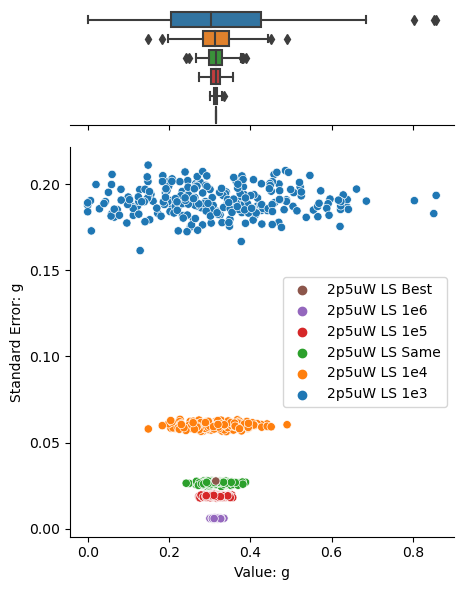
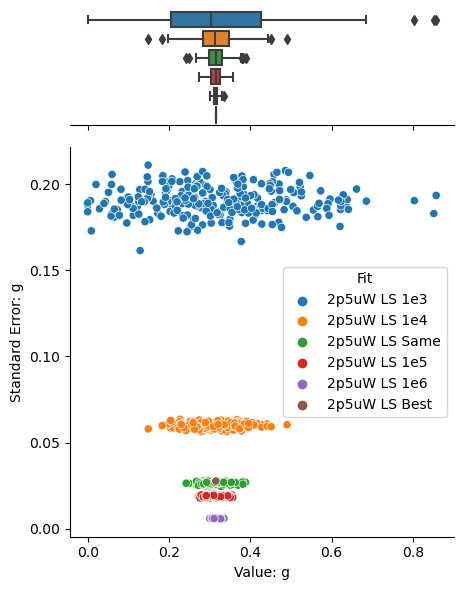
Automated Paper Plots
The plot_paper.py file now generates all relevant aggregate plots in the paper automatically.

Changed region(s): [[0.6955, 0.4576, 0.9676, 0.7017], [0.635, 0.4576, 0.6652, 0.7017]]

diff --git a/code/plot_paper.py b/code/plot_paper.py
@@ -5,18 +5,18 @@ Created on Mon Feb 13 16:00:21 2023
 @author: David J. Kedziora
 """
 
-import os
+# import os
 
 import pandas as pd
 import numpy as np
-from lmfit import fit_report
+# from lmfit import fit_report
 
-from time import time
-import multiprocessing as mp
-from functools import partial
+# from time import time
+# import multiprocessing as mp
+# from functools import partial
 
 import load
-import calc
+# import calc
 import plot
 
 import seaborn as sns
@@ -136,57 +136,88 @@ for filename_prefix, filename_label in zip(filename_prefixes, filename_labels):
 #     df_temp.drop(df_temp[is_stderr_too_big].index, inplace=True)
 
 #%% Create plots as required.
-plotted_filename_labels = ["1p2uW", "30uW"]#,"1p2uW", "2p5uW", "4uW", "8uW", "10uW-", "10uW+", "20uW", "30uW"]
-plotted_fit_prefixes = ["no_bg_ls_fit", "ls_fit"]
-plotted_num_event_ids = ["10000"]
+# plotted_filename_labels = ["1p2uW", "30uW"]#,"1p2uW", "2p5uW", "4uW", "8uW", "10uW-", "10uW+", "20uW", "30uW"]
+# plotted_fit_prefixes = ["no_bg_ls_fit", "ls_fit"]
+# plotted_num_event_ids = ["10000"]
     
-for param_id in param_ids:
-    
-    df_plot = pd.DataFrame(columns=param_fit_ids)
-    
-    for count_filename in range(len(filename_labels)):
-        filename_label = filename_labels[count_filename]
-        total_events = total_event_list[count_filename]
-        if filename_label in plotted_filename_labels:
-            
-            for count_fit_prefix in range(len(fit_prefixes)):
-                fit_prefix = fit_prefixes[count_fit_prefix]
-                if fit_prefix in plotted_fit_prefixes:
-                    fit_label = fit_labels[count_fit_prefix]
-                    
-                    if not fit_prefix == "no_bg_ls_fit":
-                        # First row of any sample size is the original best fit.
-                        df_temp = mc_results[filename_label][fit_prefix][num_event_ids[0]][param_id]
-                        df_plot = pd.concat([df_plot,
-                                             df_temp.loc[0].to_frame().T.assign(Fit=filename_label + " " + fit_label + " Best", Best="1")], 
-                                            ignore_index=True)
-                    
-                    for count_num_events in range(len(num_event_ids)):
-                        num_events = num_event_ids[count_num_events]
-                        num_event_label = num_event_labels[count_num_events]
-                        if num_events in plotted_num_event_ids:
-                            df_temp = mc_results[filename_label][fit_prefix][num_events][param_id]
+def plot_scatter(plotted_filename_labels, plotted_fit_prefixes, plotted_num_event_ids,
+                 filename_plot,
+                 do_reverse_hues = False, do_reverse_legend = False, do_move_legend = False):
+    for param_id in param_ids:
+        
+        df_plot = pd.DataFrame(columns=param_fit_ids)
+        
+        for count_filename in range(len(filename_labels)):
+            filename_label = filename_labels[count_filename]
+            total_events = total_event_list[count_filename]
+            if filename_label in plotted_filename_labels:
+                
+                for count_fit_prefix in range(len(fit_prefixes)):
+                    fit_prefix = fit_prefixes[count_fit_prefix]
+                    if fit_prefix in plotted_fit_prefixes:
+                        fit_label = fit_labels[count_fit_prefix]
+                        
+                        if not fit_prefix == "no_bg_ls_fit":
+                            # First row of any sample size is the original best fit.
+                            df_temp = mc_results[filename_label][fit_prefix][num_event_ids[0]][param_id]
                             df_plot = pd.concat([df_plot,
-                                                 df_temp.loc[1:].assign(Fit=filename_label + " " + fit_label + " " + num_event_label, Best="0")],
+                                                 df_temp.loc[0].to_frame().T.assign(Fit=filename_label + " " + fit_label + " Best", Best="1")], 
                                                 ignore_index=True)
-            
-            # dataset = pd.concat([mc_results["pnoise_fits"]["1000"]["amp_ratio"].assign(dataset="set1"), 
-            #                      mc_results["fits"]["1000"]["amp_ratio"].assign(dataset="set2")])
-            
-    g = sns.JointGrid(data=df_plot.iloc[::-1], x="value", y="stderr", hue="Fit", ratio=3)
-    # g = sns.JointGrid(data=df_plot, x="value", y="stderr", hue="Fit")
-    
-    g.plot_joint(sns.scatterplot)
-    handles, labels = g.ax_joint.get_legend_handles_labels()
-    g.ax_joint.legend(handles[::-1], labels[::-1])
-    # g.plot_marginals(sns.stripplot, hue="dataset", dodge=True)
-    # sns.boxplot(df_plot, x=g.hue, y=g.y, ax=g.ax_marg_y)
-    sns.boxplot(df_plot, y=g.hue, x=g.x, ax=g.ax_marg_x)
-    g.ax_marg_y.remove()
-    if param_id == "g2_zero":
-        g.set_axis_labels(xlabel="Value: g", ylabel="Standard Error: g")
-        sns.move_legend(g.ax_joint, "upper left", bbox_to_anchor=(1, 1))
-        g.savefig(plot_prefix + "temp.png" , bbox_inches="tight")
+                        
+                        for count_num_events in range(len(num_event_ids)):
+                            num_events = num_event_ids[count_num_events]
+                            num_event_label = num_event_labels[count_num_events]
+                            if num_events in plotted_num_event_ids:
+                                df_temp = mc_results[filename_label][fit_prefix][num_events][param_id]
+                                df_plot = pd.concat([df_plot,
+                                                     df_temp.loc[1:].assign(Fit=filename_label + " " + fit_label + " " + num_event_label, Best="0")],
+                                                    ignore_index=True)
+        
+        g = None
+        if do_reverse_hues:
+            g = sns.JointGrid(data=df_plot.iloc[::-1], x="value", y="stderr", hue="Fit", ratio=3)
+        else:
+            g = sns.JointGrid(data=df_plot, x="value", y="stderr", hue="Fit", ratio=3)
+        
+        g.plot_joint(sns.scatterplot)
+        if do_reverse_legend:
+            handles, labels = g.ax_joint.get_legend_handles_labels()
+            g.ax_joint.legend(handles[::-1], labels[::-1], title="Fit")
+        sns.boxplot(df_plot, y=g.hue, x=g.x, ax=g.ax_marg_x)
+        g.ax_marg_y.remove()
+        if param_id == "g2_zero":
+            g.set_axis_labels(xlabel="Value: g", ylabel="Standard Error: g")
+            if do_move_legend:
+                sns.move_legend(g.ax_joint, "upper left", bbox_to_anchor=(1, 1))
+            else:
+                sns.move_legend(g.ax_joint, "best")
+            g.savefig(plot_prefix + filename_plot + ".png", bbox_inches="tight")
+        plt.close()
+
+plot_scatter(plotted_filename_labels = ["2p5uW"],
+             plotted_fit_prefixes = ["ls_fit"],
+             plotted_num_event_ids = ["1000000", "100000", "0", "10000", "1000"],
+             filename_plot = "mc_2p5uW_spread",
+             do_reverse_hues = True)
+
+plot_scatter(plotted_filename_labels = ["1p2uW", "2p5uW", "4uW", "8uW", "10uW-", "10uW+", "20uW", "30uW"],
+             plotted_fit_prefixes = ["ls_fit"],
+             plotted_num_event_ids = ["100000"],
+             filename_plot = "mc_sample_variance",
+             do_move_legend = True)   
+         
+plot_scatter(plotted_filename_labels = ["10uW-", "30uW"],
+             plotted_fit_prefixes = ["ls_fit", "p_fit"],
+             plotted_num_event_ids = ["1000000"],
+             filename_plot = "issues_poisson")
+
+plot_scatter(plotted_filename_labels = ["1p2uW", "30uW"],
+             plotted_fit_prefixes = ["no_bg_ls_fit", "ls_fit"],
+             plotted_num_event_ids = ["10000"],
+             filename_plot = "mc_no_bg",
+             do_reverse_hues = True,
+             # do_reverse_legend = True,
+             do_move_legend = True)
         
 #%% Examine expanding averages.
 
@@ -214,9 +245,7 @@ for filename_label, total_event_number in zip(filename_labels, total_event_list)
     expand_mean = df_expand.T.mean()
     expand_std = df_expand.T.std()
     ax_expand.fill_between((df_expand.index+1)*1000, expand_mean - expand_std, expand_mean + expand_std, alpha=0.2)
-    # ax_expand.plot(df_expand.index*1000, expand_mean + expand_std)
     ax_expand.plot((df_expand.index+1)*1000, expand_mean, label = filename_label)
-    # ax_expand.plot(df_expand.index*1000, expand_mean - expand_std)
     
     ax_expand.plot((df_expand.index+1)*1000, sr_1000.expanding().mean(), "k:")
     
@@ -234,16 +263,3 @@ handles, labels = ax_expand.get_legend_handles_labels()
 ax_expand.legend(reversed(handles), reversed(labels), loc = "upper right", framealpha = 1)
 fig_expand.savefig(plot_prefix  + "expanding.png", bbox_inches="tight")
 plt.close(fig_expand)
-# fig_scatter.colorbar(scatter_plot, ax = ax_scatter, 
-#                      label = r"$log_2x$ for $x$ snapshots per sample")
-# plt.colorbar(scatter_plot)
-# fig_scatter.savefig(in_save_prefix + ".png",
-#                     bbox_inches="tight")
-# plt.close(fig_scatter)
-
-# df_perms = pd.DataFrame()
-
-# for count_perm in range(num_perms):
-#     df_perms = pd.concat([df_perms, sr_1000.sample(n=250, ignore_index=True).expanding().mean()])
-# df_perms.rename(columns={0: "g_avg"}, inplace=True)
-# df_perms["num_fits"] = df_perms.index

diff --git a/README.md b/README.md
@@ -1,7 +1,9 @@
 # Repository Name: sps-quality
 
 ## Overview
-This repository contains the data and Python scripts associated with the scientific article titled "The Challenge of Quickly Determining the Quality of a Single-Photon Source". The article cautions against overconfidence when estimating the quality of a quantum dot intended to be a single-photon source (SPS) quantum dot. It highlights uncertainty statistics derived from experimental datasets that are supplemented by data augmentation. The scripts provided here demonstratively implement these procedures of data augmentation and uncertainty analysis.
+This repository contains the data and Python scripts associated with the scientific article titled "The Challenge of Quickly Determining the Quality of a Single-Photon Source".  
+The article cautions against overconfidence when estimating the quality of a quantum dot intended to be a single-photon source (SPS). It does so by highlighting uncertainty statistics derived from experimental datasets that are supplemented by data augmentation.  
+The scripts provided here demonstratively implement these procedures of data augmentation and uncertainty analysis.
 
 ## Requirements
 - Anaconda (Python 3.x)
@@ -15,45 +17,45 @@ This repository contains the data and Python scripts associated with the scienti
 
 ## Installation
 1. Clone this repository to your local machine using the following command:
-```
-git clone https://github.com/UTS-CASLab/sps-quality.git
-```
-Alternatively, you can download the repository as a ZIP file and extract it.
+   ```
+   git clone https://github.com/UTS-CASLab/sps-quality.git
+   ```
+   Alternatively, you can download the repository as a ZIP file and extract it.
 
 2. Install Anaconda by following the instructions from the official Anaconda website:
-https://www.anaconda.com/products/individual
+   https://www.anaconda.com/products/individual
 
 3. Open Anaconda Prompt (Windows) or Terminal (macOS/Linux) and install the required packages:
-```
-conda install -c conda-forge numpy matplotlib pandas lmfit numdifftools seaborn
-```
+   ```
+   conda install -c conda-forge numpy matplotlib pandas lmfit numdifftools seaborn
+   ```
 
 4. Navigate to the repository's directory:
-```
-cd sps-quality
-```
+   ```
+   cd sps-quality
+   ```
 
 ## Usage
 The repository provides several Python scripts for data analysis and visualisation. Here are the main scripts:
 
-- `mc.py`: This script loops through select experimental interferometry datasets stored in the `data` directory, fits their histograms, bootstraps new data samples from these best fits, fits histograms of the bootstrapped samples, and compiles statistics for the fit parameters, including SPS quality. The statistics are saved to .pkl files in appropriate `saves` sub-directories. Sample fits are also plotted and saved in appropriate `results` sub-directories.
+- `mc.py`: This script loops through select experimental interferometry datasets stored in the `data` directory, fits their histograms, bootstraps new data samples from these best fits, fits histograms of the bootstrapped samples, and compiles statistics for the fit parameters, including SPS quality. The statistics are saved to .pkl files in appropriate `saves` sub-directories. Sample fits are also plotted and saved in appropriate `results` sub-directories.  
   To run this script, execute the following command:
   ```
   python mc.py
   ```
   Note that pre-existing .pkl files will force `mc.py` to skip over data augmentation for the settings they represent, so delete them in the appropriate `saves` subdirectories if fresh data augmentation and sample-fit plots are desired.
 
-- `plot_paper.py`: This script generates plots based on the fit-parameter statistics obtained from the `mc.py` script, saving them in the top level of the `results` directory.
+- `plot_paper.py`: This script generates plots based on the fit-parameter statistics obtained from the `mc.py` script, saving them in the top level of the `results` directory.  
   To run this script, execute the following command:
   ```
   python plot_paper.py
   ```
 
 ## Data
-The `data\InGaAs-GaAs QDs\FI-SEQUR project demonstrator sample` directory contains the experimental data specific to the paper generated by interferometry measurements of an intended SPS. Their format is described in the paper. These files serve as input for the `mc.py` script, which augments them with a data-generative procedure (referred to as a Monte Carlo method), fits their histograms to derive a metric for SPS quality, and compiles their uncertainty statistics.
+The `data\InGaAs-GaAs QDs\FI-SEQUR project demonstrator sample` directory contains the experimental data specific to the paper generated by interferometry measurements of an intended SPS. Their format is described in the paper. These files serve as input for the `mc.py` script, which augments them with a data-generative procedure, fits their histograms to derive a metric for SPS quality, and compiles their uncertainty statistics.
 
 ## Saves
-The `saves\InGaAs-GaAs QDs\FI-SEQUR project demonstrator sample` directory contains pickle files storing the uncertainty statistics generated by the `mc.py` script. These files serve as input for the `plot_paper.py` script, which visualises aggregate results.
+The `saves\InGaAs-GaAs QDs\FI-SEQUR project demonstrator sample` directory contains .pkl files storing the uncertainty statistics generated by the `mc.py` script. These files serve as input for the `plot_paper.py` script, which visualises aggregate results.
 
 ## Results
 The `results` directory contains plots of aggregate results generated by the `plot_paper.py` script. These are produced for the paper. The `saves\InGaAs-GaAs QDs\FI-SEQUR project demonstrator sample` directory also contains sample histogram plots generated by the `mc.py` script.
